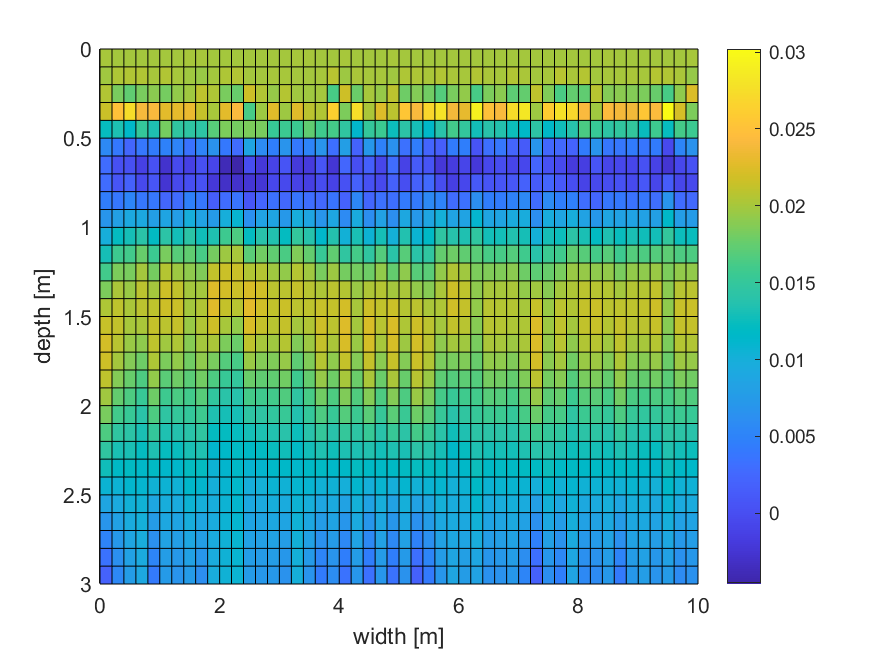
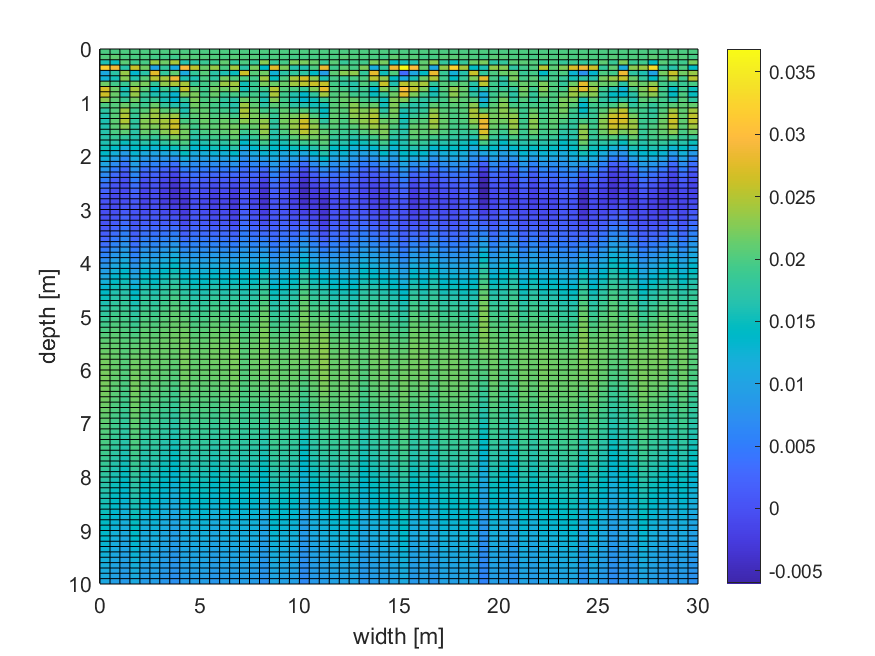
update regu

diff --git a/maltab_models/2D-notfinished/CreateData.m b/maltab_models/2D-notfinished/CreateData.m
@@ -2,11 +2,11 @@ clear, close, clc,
 
 tic
 % initial parameters
-xlog = 0:0.2:10; %[m]
+xlog = 0:0.5:30; %[m]
 nlay = length(xlog);
 sig = repmat([20e-3; 1e-3; 20e-3; 10e-3], 1, nlay);
-ztop = repmat([0; 0.5; 1; 2], 1, nlay);
-coilsep = repmat(0.1:0.1:8, nlay, 1)';
+ztop = repmat([0; 2; 4; 8], 1, nlay);
+coilsep = repmat(0.1:0.1:12, nlay, 1)';
 ori = repmat([0 1], length(xlog), size(coilsep, 1)/2)';
 
 data = [];

diff --git a/maltab_models/2D-notfinished/Inversion2D.m b/maltab_models/2D-notfinished/Inversion2D.m
@@ -7,14 +7,12 @@ tic
 load data2D
 
 xlog = unique(data(:,4));
-ztop = 0:0.1:3; % vert
+ztop = 0:0.1:10; % vert
 
 nx = length(xlog);
 nz = length(ztop);
 
 % model parameters
-ndata = size(data,1);
-nlay = length(ztop);
 sigma_a = data(:, 1);
 nsteps = length(unique(data(:, 4)));
 
